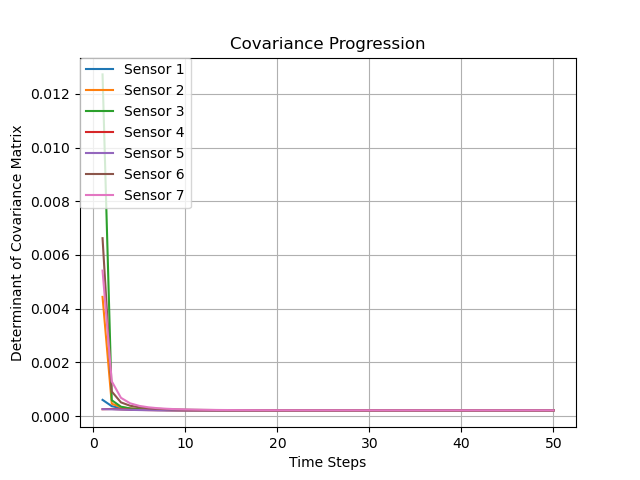
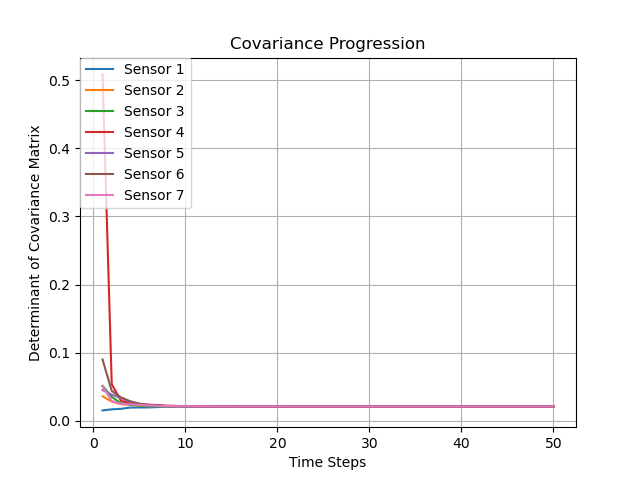
Randomly samples for optimal weights

diff --git a/decentralizedFusion.py b/decentralizedFusion.py
@@ -14,11 +14,10 @@ def plot_ellipse(covariance, ax, label_t):
     ax.plot(y_el[0], y_el[1], label=label_t)
 
 
-def CI(mu_s, cov_s):
-    w = 1./len(mu_s)
+def CI(mu_s, cov_s, weights):
     total_cov = np.zeros(cov_s[0].shape)
     total_mu = np.zeros(mu_s[0].shape)
-    for mu, cov in zip(mu_s, cov_s):
+    for mu, cov, w in zip(mu_s, cov_s, weights):
         total_mu = np.add(total_mu, w*np.dot(lin.inv(cov), mu))
         total_cov = np.add(total_cov, w*lin.inv(cov))
     
@@ -26,12 +25,17 @@ def CI(mu_s, cov_s):
     mu_comb = np.dot(comb_cov, total_mu)
     return mu_comb, comb_cov
 
-def CI_update(mu_a, cov_a, mu_b, cov_b, w):
-    cov_comb = lin.inv(np.add(w*np.linalg.inv(cov_a), (1-w)*lin.inv(cov_b)))
-    sens_1 = w*np.dot(np.linalg.inv(cov_a), mu_a)
-    sens_2 = (1-w)*np.dot(np.linalg.inv(cov_b), mu_b)
-    mu_comb = np.dot(cov_comb, (np.add(sens_1, sens_2)))
-    return mu_comb, cov_comb
+def find_optimal_cov_and_mu(iter, mu_s, cov_s):
+    N_agents = len(mu_s)
+    default_weights = np.full((N_agents, ), 1./len(mu_s))
+    mu, cov = CI(mu_s, cov_s, default_weights)
+    for i in range(iter):
+        weights = np.random.rand(N_agents, )
+        weights/= sum(weights)
+        pot_mu, pot_cov = CI(mu_s, cov_s, weights)
+        if(lin.det(pot_cov) < lin.det(cov)):
+            mu, cov = pot_mu, pot_cov
+    return mu, cov
 
 def get_weights(sensor_covariances):
     determinats = np.array([np.linalg.det(cov) for cov in sensor_covariances])
@@ -58,7 +62,7 @@ def covarianceIntersection(sensor_readings, sensor_covariances, N_time_steps, ne
             for k in neighbors[j][0]:
                 mu_s.append(sensor_readings[k])
                 cov_s.append(sensor_covariances[k])
-            sensor_readings[j], sensor_covariances[j] = CI(mu_s, cov_s)
+            sensor_readings[j], sensor_covariances[j] = find_optimal_cov_and_mu(5, mu_s, cov_s)
             dist = multivariate_normal(sensor_readings[j], sensor_covariances[j])
             KL_div[j].append(compute_KL(true_dist, dist, KL_inp))
             determinant_progression[j].append(lin.det(sensor_covariances[j]))
@@ -66,5 +70,6 @@ def covarianceIntersection(sensor_readings, sensor_covariances, N_time_steps, ne
     plt.legend(loc='upper left', borderaxespad=0.)
     plt.grid(b = True)
     plt.title("Covariance Ellipses")
+    plt.savefig("Covariance Ellipses.png")
     plt.show()
     return sensor_readings, sensor_covariances, KL_div, determinant_progression

diff --git a/main.py b/main.py
@@ -122,6 +122,7 @@ plt.title("Sensor network")
 plt.ylabel("Distance (m)")
 plt.xlabel("Distance (m)")
 
+plt.savefig("SensorNetwork.png")
 plt.show()
 
 sensor_mus, sensor_covs = sampleMeasuredSensorFromTrue(my_space.dim, N_agents, target_loc)
@@ -145,6 +146,7 @@ plt.xlabel("Time Steps")
 plt.title("KL Divergence Progression")
 plt.legend(loc='upper left', borderaxespad=0.)
 plt.grid(b = True)
+plt.savefig("KL_Divergence.png")
 plt.show()
 
 ax = plt.axes()
@@ -157,6 +159,7 @@ plt.xlabel("Time Steps")
 plt.title("Covariance Progression")
 plt.legend(loc='upper left', borderaxespad=0.)
 plt.grid(b = True)
+plt.savefig("Covariance_Progression.png")
 plt.show()
 
 

diff --git a/gaussianDistribution.py b/gaussianDistribution.py
@@ -6,9 +6,10 @@ def sampleMeasuredSensorFromTrue(dims, num_sensors, target_loc):
     sensor_mus = []
     covs = []
     mu = toTuple(target_loc)
+    scalar = 25
     for i in range(num_sensors):
         S = np.tril(np.random.rand(dims, dims))
-        cov = np.dot(S, S.T)
+        cov = np.dot(S, S.T) * scalar
         covs.append(cov)
         mu_i = np.random.multivariate_normal(mu, cov, 1)[0]
         sensor_mus.append(mu_i)
